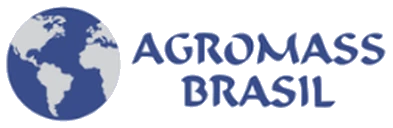
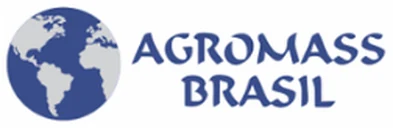
Tarja das empresas de volta ao fundo branco, com as 36 marcas
Volta ao estado anterior: fundo de papel, logos em cinza com cor ao
passar o mouse, acima do campo azul.

Claude-Session: https://claude.ai/code/session_01QQd3ztgJnVWXHqeYAoktRR

Changed region(s): [[0.5191, 0.375, 0.5496, 0.4375], [0.7634, 0.8125, 0.7939, 0.8438]]

diff --git a/src/content/clientes.ts b/src/content/clientes.ts
@@ -1,13 +1,8 @@
 /**
  * Empresas atendidas, na ordem das pranchas 14 a 16 do portfólio
  * institucional (Atacadistas & Alimentos, Transporte, Indústria & Comércio).
- * Logos recortados das pranchas, sem o fundo branco, em `public/clientes/`
- * (WebP com transparência, 128 px de altura). Publicação autorizada pelo
- * Philipe em 2026-09-28.
- *
- * Fora, a pedido do Philipe: oito marcas de forma cheia (Super União,
- * Guaraná Mineiro, Daus, AGT-LOG, Setceg, Perfinasa, Boi Brasil e Bon), que
- * em silhueta branca viravam mancha.
+ * Logos recortados das pranchas, em `public/clientes/` (WebP, 128 px de altura).
+ * Publicação autorizada pelo Philipe em 2026-09-28.
  */
 export const clientes = [
   {
@@ -17,15 +12,28 @@ export const clientes = [
     altura: 128,
   },
   {
+    slug: "super-uniao",
+    nome: "Super União Supermercados",
+    largura: 140,
+    altura: 128,
+  },
+  {
     slug: "superbox",
     nome: "Superbox Supermercados",
     largura: 185,
     altura: 128,
   },
   { slug: "brasal", nome: "Brasal Refrigerantes", largura: 99, altura: 128 },
+  {
+    slug: "guarana-mineiro",
+    nome: "Guaraná Mineiro",
+    largura: 179,
+    altura: 128,
+  },
   { slug: "bonasa", nome: "Bonasa", largura: 392, altura: 128 },
   { slug: "dez", nome: "Dez", largura: 312, altura: 128 },
   { slug: "cicopal", nome: "Cicopal", largura: 214, altura: 128 },
+  { slug: "daus", nome: "Daus", largura: 303, altura: 128 },
   { slug: "roan", nome: "Roan Alimentos", largura: 183, altura: 128 },
   {
     slug: "conquista",
@@ -33,6 +41,7 @@ export const clientes = [
     largura: 371,
     altura: 128,
   },
+  { slug: "bon", nome: "Bon Atacarejo", largura: 283, altura: 128 },
   {
     slug: "transcol",
     nome: "Transcol Transportes e Logística",
@@ -50,6 +59,12 @@ export const clientes = [
     slug: "mahnic",
     nome: "Mahnic Operadora Logística",
     largura: 229,
+    altura: 128,
+  },
+  {
+    slug: "agt-log",
+    nome: "AGT-LOG Logística e Cargas",
+    largura: 375,
     altura: 128,
   },
   { slug: "dalastra", nome: "Dalastra", largura: 835, altura: 128 },
@@ -73,10 +88,13 @@ export const clientes = [
     altura: 128,
   },
   { slug: "fenatac", nome: "Fenatac", largura: 193, altura: 128 },
+  { slug: "setceg", nome: "Setceg", largura: 424, altura: 128 },
   { slug: "agromass", nome: "Agromass Brasil", largura: 393, altura: 128 },
+  { slug: "boi-brasil", nome: "Boi Brasil", largura: 242, altura: 128 },
   { slug: "frigoias", nome: "Frigoiás", largura: 508, altura: 128 },
   { slug: "navesa", nome: "Grupo Navesa", largura: 465, altura: 128 },
   { slug: "dtc", nome: "DTC", largura: 360, altura: 128 },
+  { slug: "perfinasa", nome: "Perfinasa", largura: 458, altura: 128 },
   { slug: "unitintas", nome: "Unitintas", largura: 394, altura: 128 },
   {
     slug: "sementes-sao-mateus",

diff --git a/src/components/sections/Clientes.tsx b/src/components/sections/Clientes.tsx
@@ -5,10 +5,7 @@ import Reveal from "@/components/motion/Reveal";
 import { clientes } from "@/content/clientes";
 
 /**
- * Tarja rolante com as empresas atendidas, sobre o azul da marca.
- *
- * Os logos vão em silhueta branca (fundo transparente + filtro) e voltam à
- * cor original ao passar o mouse.
+ * Tarja rolante com as empresas atendidas.
  *
  * A trilha é duplicada e desliza metade do próprio comprimento em loop, o
  * que fecha o ciclo sem emenda visível. Para quem pede menos movimento, o
@@ -17,10 +14,10 @@ import { clientes } from "@/content/clientes";
 export default function Clientes() {
   const trilha = [...clientes, ...clientes];
   return (
-    <section className="overflow-hidden bg-azul py-16 text-white md:py-20">
+    <section className="overflow-hidden border-t border-paper-3 bg-paper py-16 md:py-20">
       <Container>
         <Reveal>
-          <Rotulo claro>Empresas atendidas</Rotulo>
+          <Rotulo>Empresas atendidas</Rotulo>
         </Reveal>
       </Container>
 
@@ -43,7 +40,7 @@ export default function Clientes() {
                 loading={i < clientes.length ? "eager" : "lazy"}
                 width={c.largura}
                 height={c.altura}
-                className="h-9 w-auto opacity-85 brightness-0 invert transition-[filter,opacity] duration-300 hover:opacity-100 hover:brightness-100 hover:invert-0 motion-reduce:transition-none md:h-11"
+                className="h-9 w-auto opacity-80 grayscale transition-[filter,opacity] duration-300 hover:opacity-100 hover:grayscale-0 motion-reduce:transition-none md:h-11"
               />
             </li>
           ))}
